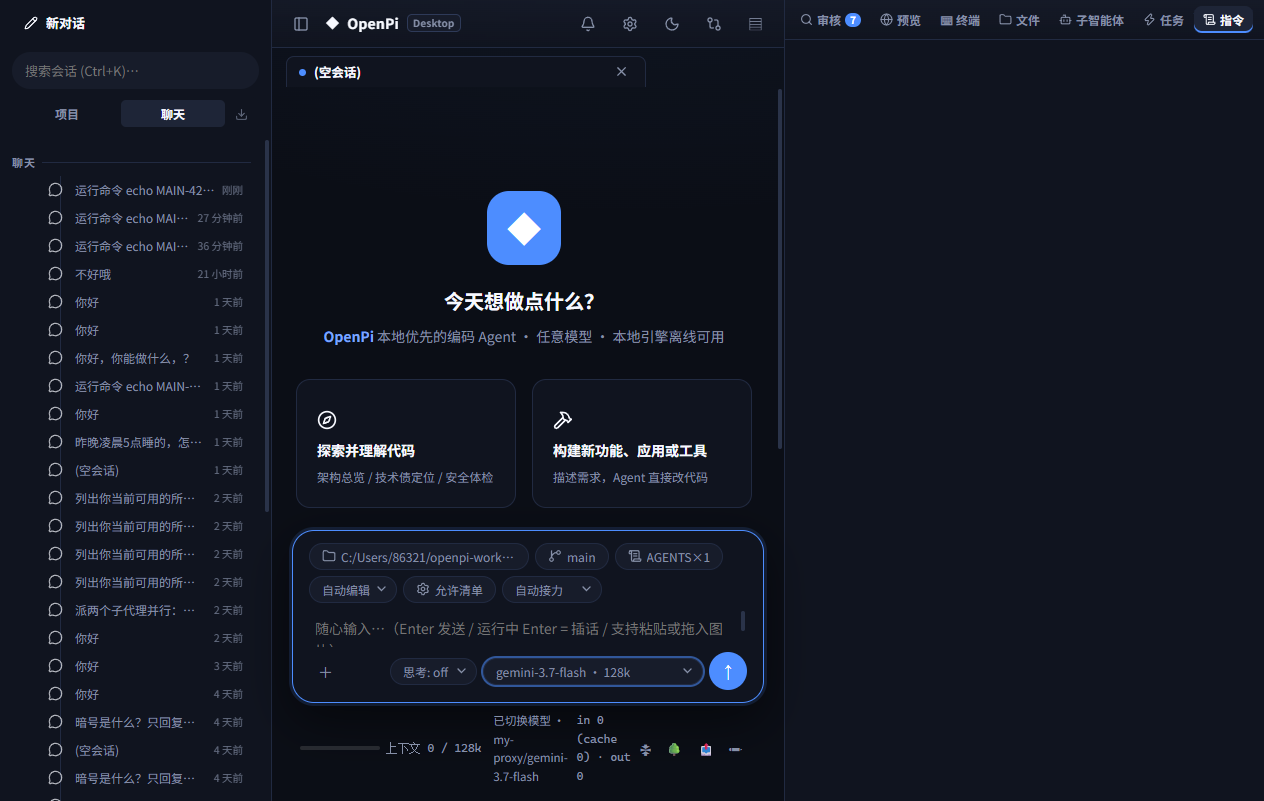
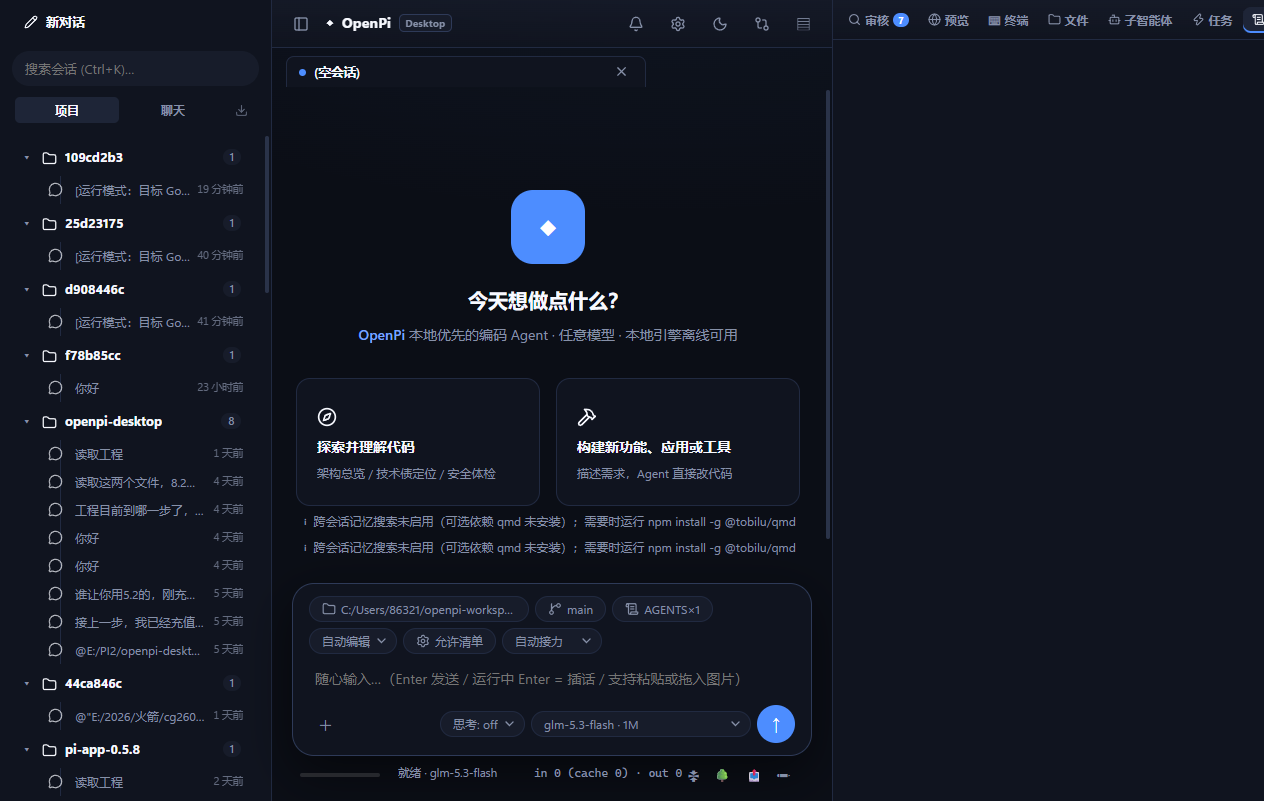
0.65.2: dock 拖拽式宽度（左缘手柄 320-720px 持久化，会话区 min-width 560 有限度跟随，撤浮层方案——输入框不再被压住）

diff --git a/src/renderer/style.css b/src/renderer/style.css
@@ -74,7 +74,7 @@ body {
 ::-webkit-scrollbar-thumb { background: var(--scroll-thumb); border-radius: 5px; border: 2px solid var(--bg); }
 ::-webkit-scrollbar-thumb:hover { background: var(--scroll-thumb-hover); }
 
-#app { display: flex; height: 100vh; }
+#app { display: flex; height: 100vh; position: relative; overflow: hidden; } /* P76：dock 拖拽式（两侧拖到限度即停），无横向滚动 */
 #main-col { flex: 1; display: flex; flex-direction: column; min-width: 0; background: radial-gradient(1200px 500px at 70% -10%, rgba(77, 141, 255, .06), transparent 60%), var(--bg); }
 .spacer { flex: 1; }
 .hidden { display: none !important; }
@@ -748,9 +748,18 @@ textarea.input { resize: vertical; font-family: var(--mono); }
 }
 /* ================= P0：右侧 Dock（标签坞：审核 / 预览） ================= */
 #dock {
-	width: 480px; min-width: 360px; display: flex; flex-direction: column;
-	border-left: 1px solid var(--border); background: var(--bg2);
+	flex: none; width: var(--dock-w, 480px); min-width: var(--dock-w, 480px); display: flex; flex-direction: column;
+	border-left: 1px solid var(--border); background: var(--bg2); position: relative;
 }
+/* P76：dock 左缘拖拽手柄——拖宽/拖窄 dock，会话区有限度跟随（min-width 兜底，composer 内部布局不乱） */
+#dock-resize {
+	position: absolute; left: -4px; top: 0; bottom: 0; width: 8px; cursor: col-resize; z-index: 5;
+}
+#dock-resize:hover, #dock-resize.on { background: var(--accent); opacity: .35; }
+body.dock-resizing { cursor: col-resize; user-select: none; }
+body.dock-resizing #dock-resize { background: var(--accent); opacity: .5; }
+#main-col { min-width: 560px; } /* 会话区缩短的下限：composer/状态栏布局完整的最小宽度 */
+#app { overflow: hidden; } /* 不出横向滚动；两侧拖到限度即停 */
 #dock[hidden] { display: none !important; }
 #dock-tabs {
 	display: flex; align-items: center; gap: 1px; padding: 6px 6px;

diff --git a/src/renderer/app.js b/src/renderer/app.js
@@ -3262,6 +3262,32 @@ document.addEventListener("drop", (e) => {
 /* ================= P0：右侧 Dock（标签坞：审核/预览）+ Codex 式审核面板 ================= */
 const GIT_STATUS_COLOR = { M: "var(--warn, #e5c07b)", A: "#98c379", "?": "#61afef", D: "#e06c75", R: "#c678dd" };
 const dock = $("dock");
+// P76：dock 宽度拖拽——左缘手柄，拖宽/拖窄 dock（320–720px），持久化 localStorage；会话区有限度跟随
+(() => {
+	const handle = $("dock-resize");
+	if (!handle) return;
+	const saved = Number(localStorage.getItem("op-dock-w"));
+	if (saved >= 320 && saved <= 720) document.documentElement.style.setProperty("--dock-w", saved + "px");
+	handle.addEventListener("mousedown", (e) => {
+		e.preventDefault();
+		handle.classList.add("on");
+		document.body.classList.add("dock-resizing");
+		const onMove = (ev) => {
+			const w = Math.min(720, Math.max(320, window.innerWidth - ev.clientX));
+			document.documentElement.style.setProperty("--dock-w", w + "px");
+		};
+		const onUp = () => {
+			document.removeEventListener("mousemove", onMove);
+			document.removeEventListener("mouseup", onUp);
+			handle.classList.remove("on");
+			document.body.classList.remove("dock-resizing");
+			const w = document.documentElement.style.getPropertyValue("--dock-w");
+			if (w) localStorage.setItem("op-dock-w", String(parseInt(w, 10)));
+		};
+		document.addEventListener("mousemove", onMove);
+		document.addEventListener("mouseup", onUp);
+	});
+})();
 const dockPanes = { review: $("dock-pane-review"), preview: $("dock-pane-preview"), terminal: $("dock-pane-terminal"), files: $("dock-pane-files"), tasks: $("dock-pane-tasks"), subagents: $("dock-pane-subagents") };
 let dockTab = null; // 当前打开的 pane：review | preview | terminal | files | null
 let dockLastTab = "review"; // 关闭后再打开时恢复的标签

diff --git a/src/renderer/index.html b/src/renderer/index.html
@@ -144,7 +144,8 @@
 		</div>
 
 			<!-- P0：右侧 Dock（标签坞，对标 Codex：审核 / 预览） -->
-			<div id="dock" hidden>
+				<div id="dock" hidden>
+					<div id="dock-resize" title="拖拽调整宽度"></div>
 				<div id="dock-tabs">
 					<button class="dock-tab" data-pane="review" title="工作区改动审阅 (Ctrl+Shift+G)"><i data-lucide="search"></i> 审核 <span id="review-cnt" class="dock-cnt" hidden></span></button>
 					<button class="dock-tab" data-pane="preview" title="实时预览 (Ctrl+T)"><i data-lucide="globe"></i> 预览</button>

diff --git a/AGENTS.md b/AGENTS.md
@@ -1,7 +1,7 @@
 # OpenPi Desktop 工程记忆（pi 自动加载）
 
  ## 当前进度快照（2026-09-19，会话上下文接力锚点）
- - 版本 **0.64.1（已公网发布 2026-09-21）**；**工作区最新（未打包未提交，两项）**：① 审核 dock 页并入职阅清单（review-body=「记录了 N 项改动」+P72.reviewFileRowHtml 共用行+openReviewDiff 弹窗+原 git 明细折叠 details；顶栏按钮入口归一跳 dock；refreshReviewUI 三合一；unit-p72b+2）② **子智能体 dock 页实时流水（对标 PI-Desktop）**：agent-host worker 订阅转发 worker_activity（p76-activity.mjs 纯函数映射：编辑/运行/读取/搜索+basename+截断，每 worker 500 条限流）；渲染层 dock 新「子智能体」tab（左 worker 列表+右动作流水，增量渲染+tool_end 原位补 ✓/✗+ms，协作卡点击联动跳转，会话切换清空）；unit-p76 11 组；e2e p67/p68/p30/p26 全绿
+ - 版本 **0.65.0（已打包已提交 6f928ea+3520d26，未发布）**：① 审核 dock 页并入职阅清单 ② 子智能体 dock 页实时流水 ③ dock 标签排布修复（禁竖排换行+横向滚动）④ 会话区加宽 960px（composer 820px 不变防按钮 bug）；含 0.64.1 全部；坐坑：e2e 曾误产 undefined/ 目录进 git（路径变量 undefined），已清理；**0.64.1**=上一公网版
 - **贴图 400 排查结论**（详见 PROGRESS.md P38.5 段）：1210=[text(""),image] 组合被智谱拒收（婚纱照 7.3MB 直发正常，非尺寸问题）；1214=空 data 图片（pi Desktop 上游自身附件链路问题，OpenPi 链路干净）；Connection error=到 open.bigmodel.cn 网络间歇不通，与 400 无关
  - **发布流程**：`npm run dist`（全量 e2e-all 门槛，大版本用）| `node scripts/dist.mjs --fast`（小改动快发，跳过回归；受影响套件用 `e2e-all --only <名>` 单跑）→ `node scripts/publish.mjs`；**0.59.0 起默认更新源=公开 GitHub Releases**（updater.json 可覆盖），本机发布源 E:/pi2/openpi-releases @9355（VBS 自启）保留为备用；e2e 与发布源端口隔离；**用户指示：改动小就不跑全量回归（耗时且费 token），全量留给大版本**
  - **待办**：① 0.34.0 发布后用户真机验证「只贴图不写字」② ~~公网发布~~ **✅ 已完成（0.59.0，2026-09-18）** ③ 观察文件卡误伤率 ④ 存量 0.32.0 用户升级需手动跑一次新 Setup（#86 跨坑）⑤ **P71 三件套+UI 精修已完成并本地打包 0.59.1（dist/OpenPi Desktop Setup 0.59.1.exe）——用户本地验收中，验收通过后再发布：补 README「开发者预览」降级措辞（✅ 已改）+ CHANGELOG 0.59.1 + git 提交 + publish.mjs**；用户产品判断：**应用尚不成熟，不建议外部用户下载使用，只定向内测** ⑥ Windows 商业代码签名证书（外部凭证阻塞项）⑦ PROGRESS.md 缺 P65–P70 条目，CHANGELOG 已覆盖，找时间补 ⑧ 遗留小 bug：#memory-modal 引用不存在的 --bg-2 变量浅色主题暗底；brand/dock 字符图标未换 lucide（需动 HTML）⑨ **设置弹窗已重设计为左导航布局（P71 第二批，未打包）**：左侧 188px 导航+搜索框+底部固定「关于与更新」卡（从技能 tab 挪出，用户曾找不到导出日志包按钮的根因）、内容区固定 620px 唯一滚动、update-card 移出 tab-pane 后 ssIndex 选择器已同步扩展 ⑩ **设置页第三轮按用户参考图（Cherry Studio）重做完成**：240px 近黑导航+组标签+纯灰阶 pill、内容区 CSS :has 动态大标题+小节+通栏行卡、修 tab 主题热切换冻结 bug；e2e-p67/p68/p20 全绿，未打包 ⑪ **P72 过程可视化五件套进行中（对标 PI-Desktop 截图，用户钦点 5 个全做，完成后打包）**：第一批 ✅ subagent 协作卡（主进程新增 worker_update 事件+agent-host #workerSnapshot，渲染层 .subagent-card 带模型徽标/耗时/真实步骤数）+ 过程时间线（.steps-group 聚合同消息工具卡，unit-p72a 6 断言+p67/p68 全绿）；第二批进行中：会话改动审阅面板（review:changes IPC+diffstat+lightbox diff）+ 粘贴反馈 toast + composer token 指示；坐坑：p72-logic.js 纯逻辑层挂 globalThis.P72 浏览器/Node 双可用
